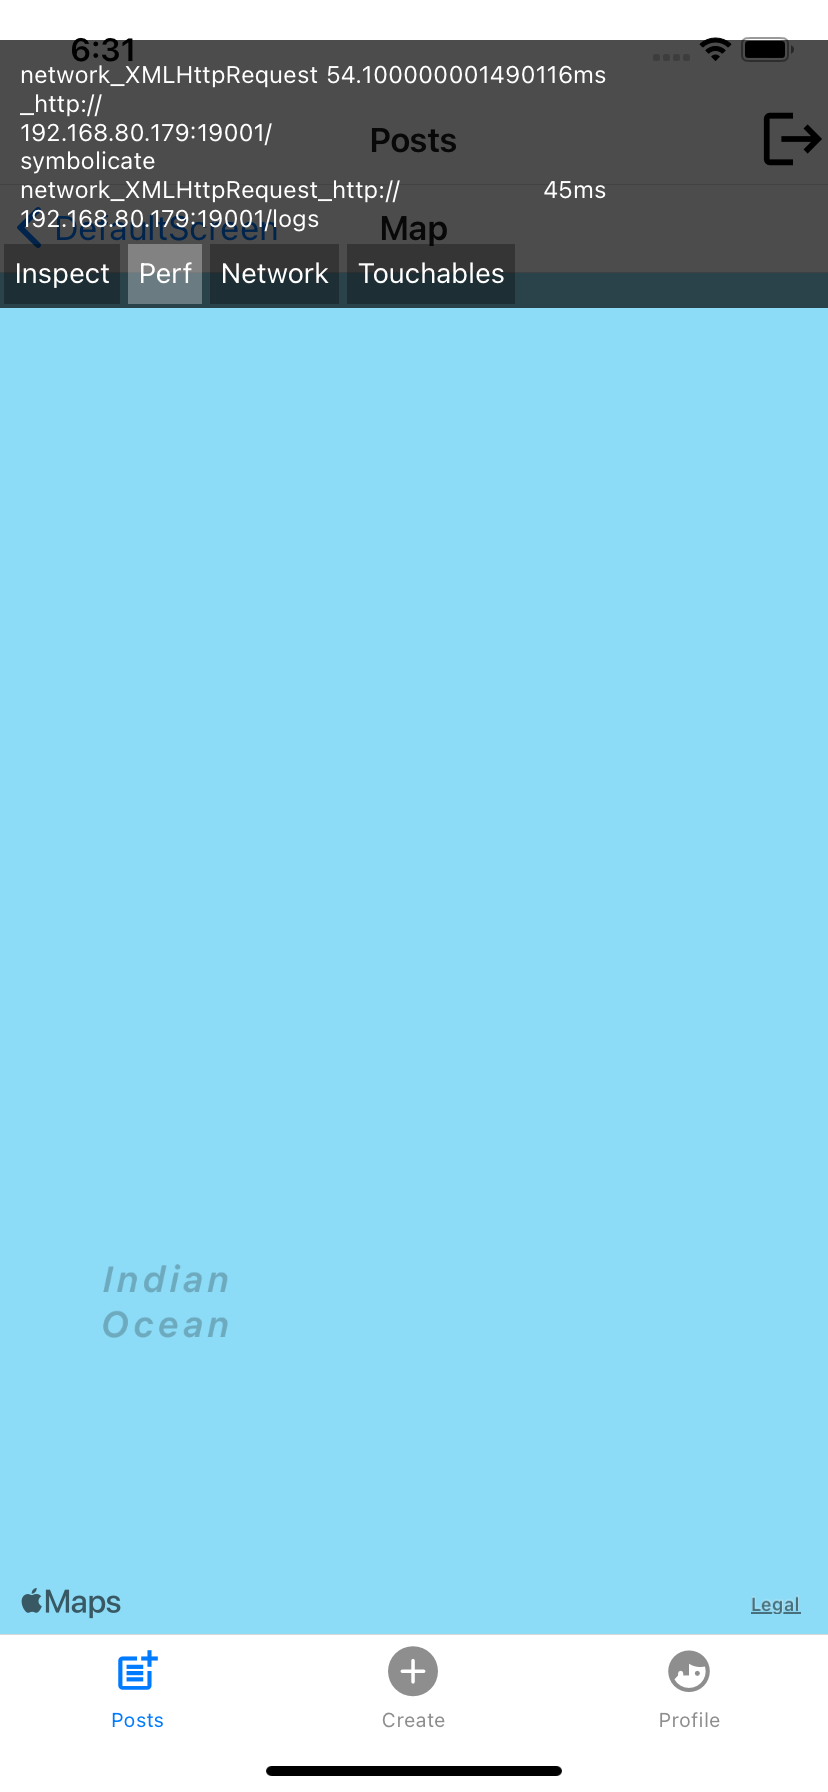
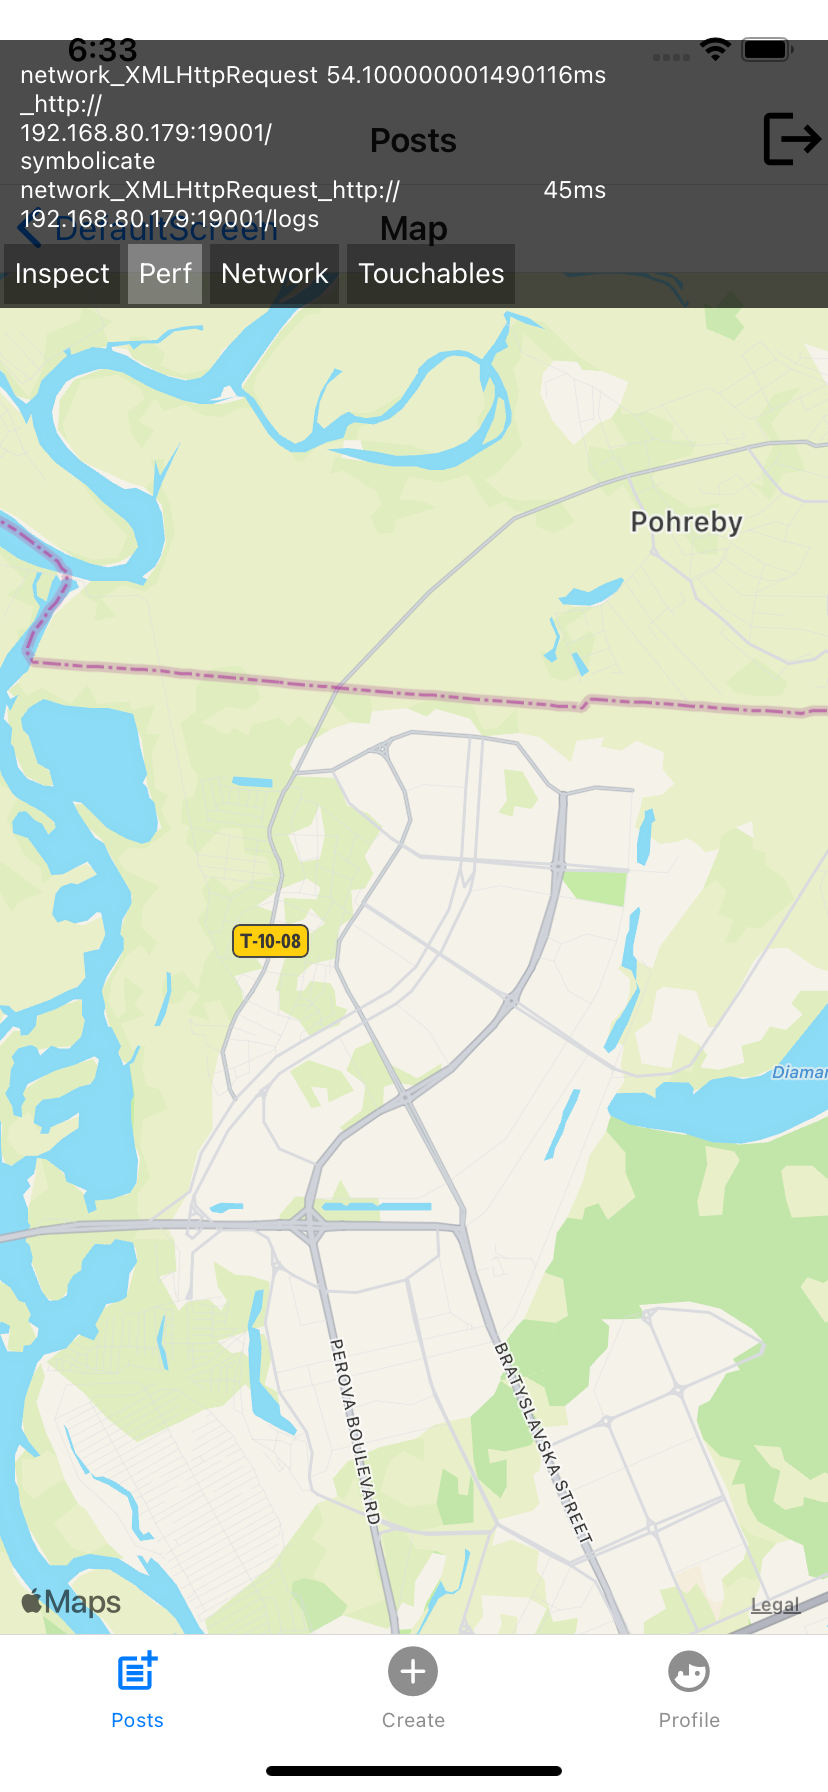
clean up

diff --git a/Screens/mainScreen/PostsScreen.jsx b/Screens/mainScreen/PostsScreen.jsx
@@ -1,52 +1,4 @@
-// import React, { useEffect, useState } from 'react';
-// import { View, Text, StyleSheet, FlatList, Image } from 'react-native';
-
-// const PostsScreen = ({route}) => {
-//   const [posts, setPosts] = useState([])
-
-//   useEffect(() => {
-//     if(route.params) {
-//       setPosts(prevState => [...prevState, route.params])
-//     }
-  
-//   }, [route.params]);
-
-//   //console.log("route.params: ", route.params)
-//   console.log('posts: ', posts)
-//   return (
-//     <View style={styles.container}>
-//     <FlatList data={posts} keyExtractor={(item, indx) => indx.toString()}
-//      renderItem={({ item }) => (
-//       <View
-//         style={{
-//           marginBottom: 10,
-//           justifyContent: "center",
-//           alignItems: "center",
-//         }}
-//       >
-//         <Image
-//           source={{ uri: item.photo }}
-//           style={{ width: 350, height: 200 }}
-//         />
-//       </View>
-//     )}
-//     />
-//     </View>
-//   );
-// };
-
-// const styles = StyleSheet.create({
-//   container: {
-//     flex: 1,
-//     justifyContent: 'center',
-//     alignItems: 'center',
-//   },
-// });
-
-// export default PostsScreen;
-
 import React from "react";
-import { moduleName } from "react-native";
 import { createStackNavigator } from "@react-navigation/stack";
 import DefaultScreenPosts from "../nestedScreens/DefaultScreenPosts";
 import MapScreen from "../nestedScreens/MapScreen";
@@ -60,7 +12,6 @@ return (
          name="DefaultScreen"
          component={DefaultScreenPosts}
        />
-       {/* <NestedScreen.Screen name="Comments" component={CommentsScreen} /> */}
        <NestedScreen.Screen name="Map" component={MapScreen} />
   </NestedScreen.Navigator>
 )

diff --git a/Screens/nestedScreens/MapScreen.js b/Screens/nestedScreens/MapScreen.js
@@ -6,9 +6,9 @@ const MapScreen = () => (
   <View style={styles.container}>
     <MapView
       style={{ flex: 1 }}
-      initialRegion={{ longitude: 51.49, latitude: 10.14, longitudeDelta: 0.1, latitudeDelta: 0.1 }}
+      initialRegion={{ longitude: 30.602185, latitude:  50.516339 , longitudeDelta: 0.1, latitudeDelta: 0.1 }}
     >
-      <Marker coordinate={{ latitude: 50.516339, longitude: 30.602185 }} title="travel photo" />
+      <Marker coordinate={{ latitude:   30.602185, longitude: 50.516339 }} title="default longitude" />
     </MapView>
   </View>
 );
@@ -20,21 +20,3 @@ const styles = StyleSheet.create({
 });
 
 export default MapScreen;
-
-// import React from "react"
-// import { View, Text, StyleSheet} from "react-native"
-
-
-// const ProfileScreen = () => {
-//     return <View style={styles.container}><Text>ProfileScreen</Text></View>
-// }
-
-// const styles = StyleSheet.create({
-//     container: {
-//       flex: 1,
-//       justifyContent: "center",
-//       alignItems: "center",
-//     },
-//   });
-
-// export default ProfileScreen;

diff --git a/Screens/mainScreen/CreatePostsScreen.jsx b/Screens/mainScreen/CreatePostsScreen.jsx
@@ -16,13 +16,10 @@ const CreatePostsScreen = ({navigation}) => {
     console.log('latitude: ', location.coords.latitude)
 
     setPhoto(photo.uri);
-
-    console.log('photo', photo.uri);
   };
 
   const sendPhoto = () => {
     console.log('navigation ', navigation)
-    // navigation.navigate("Posts", { photo })
     navigation.navigate("DefaultScreen", { photo })
   }
 
